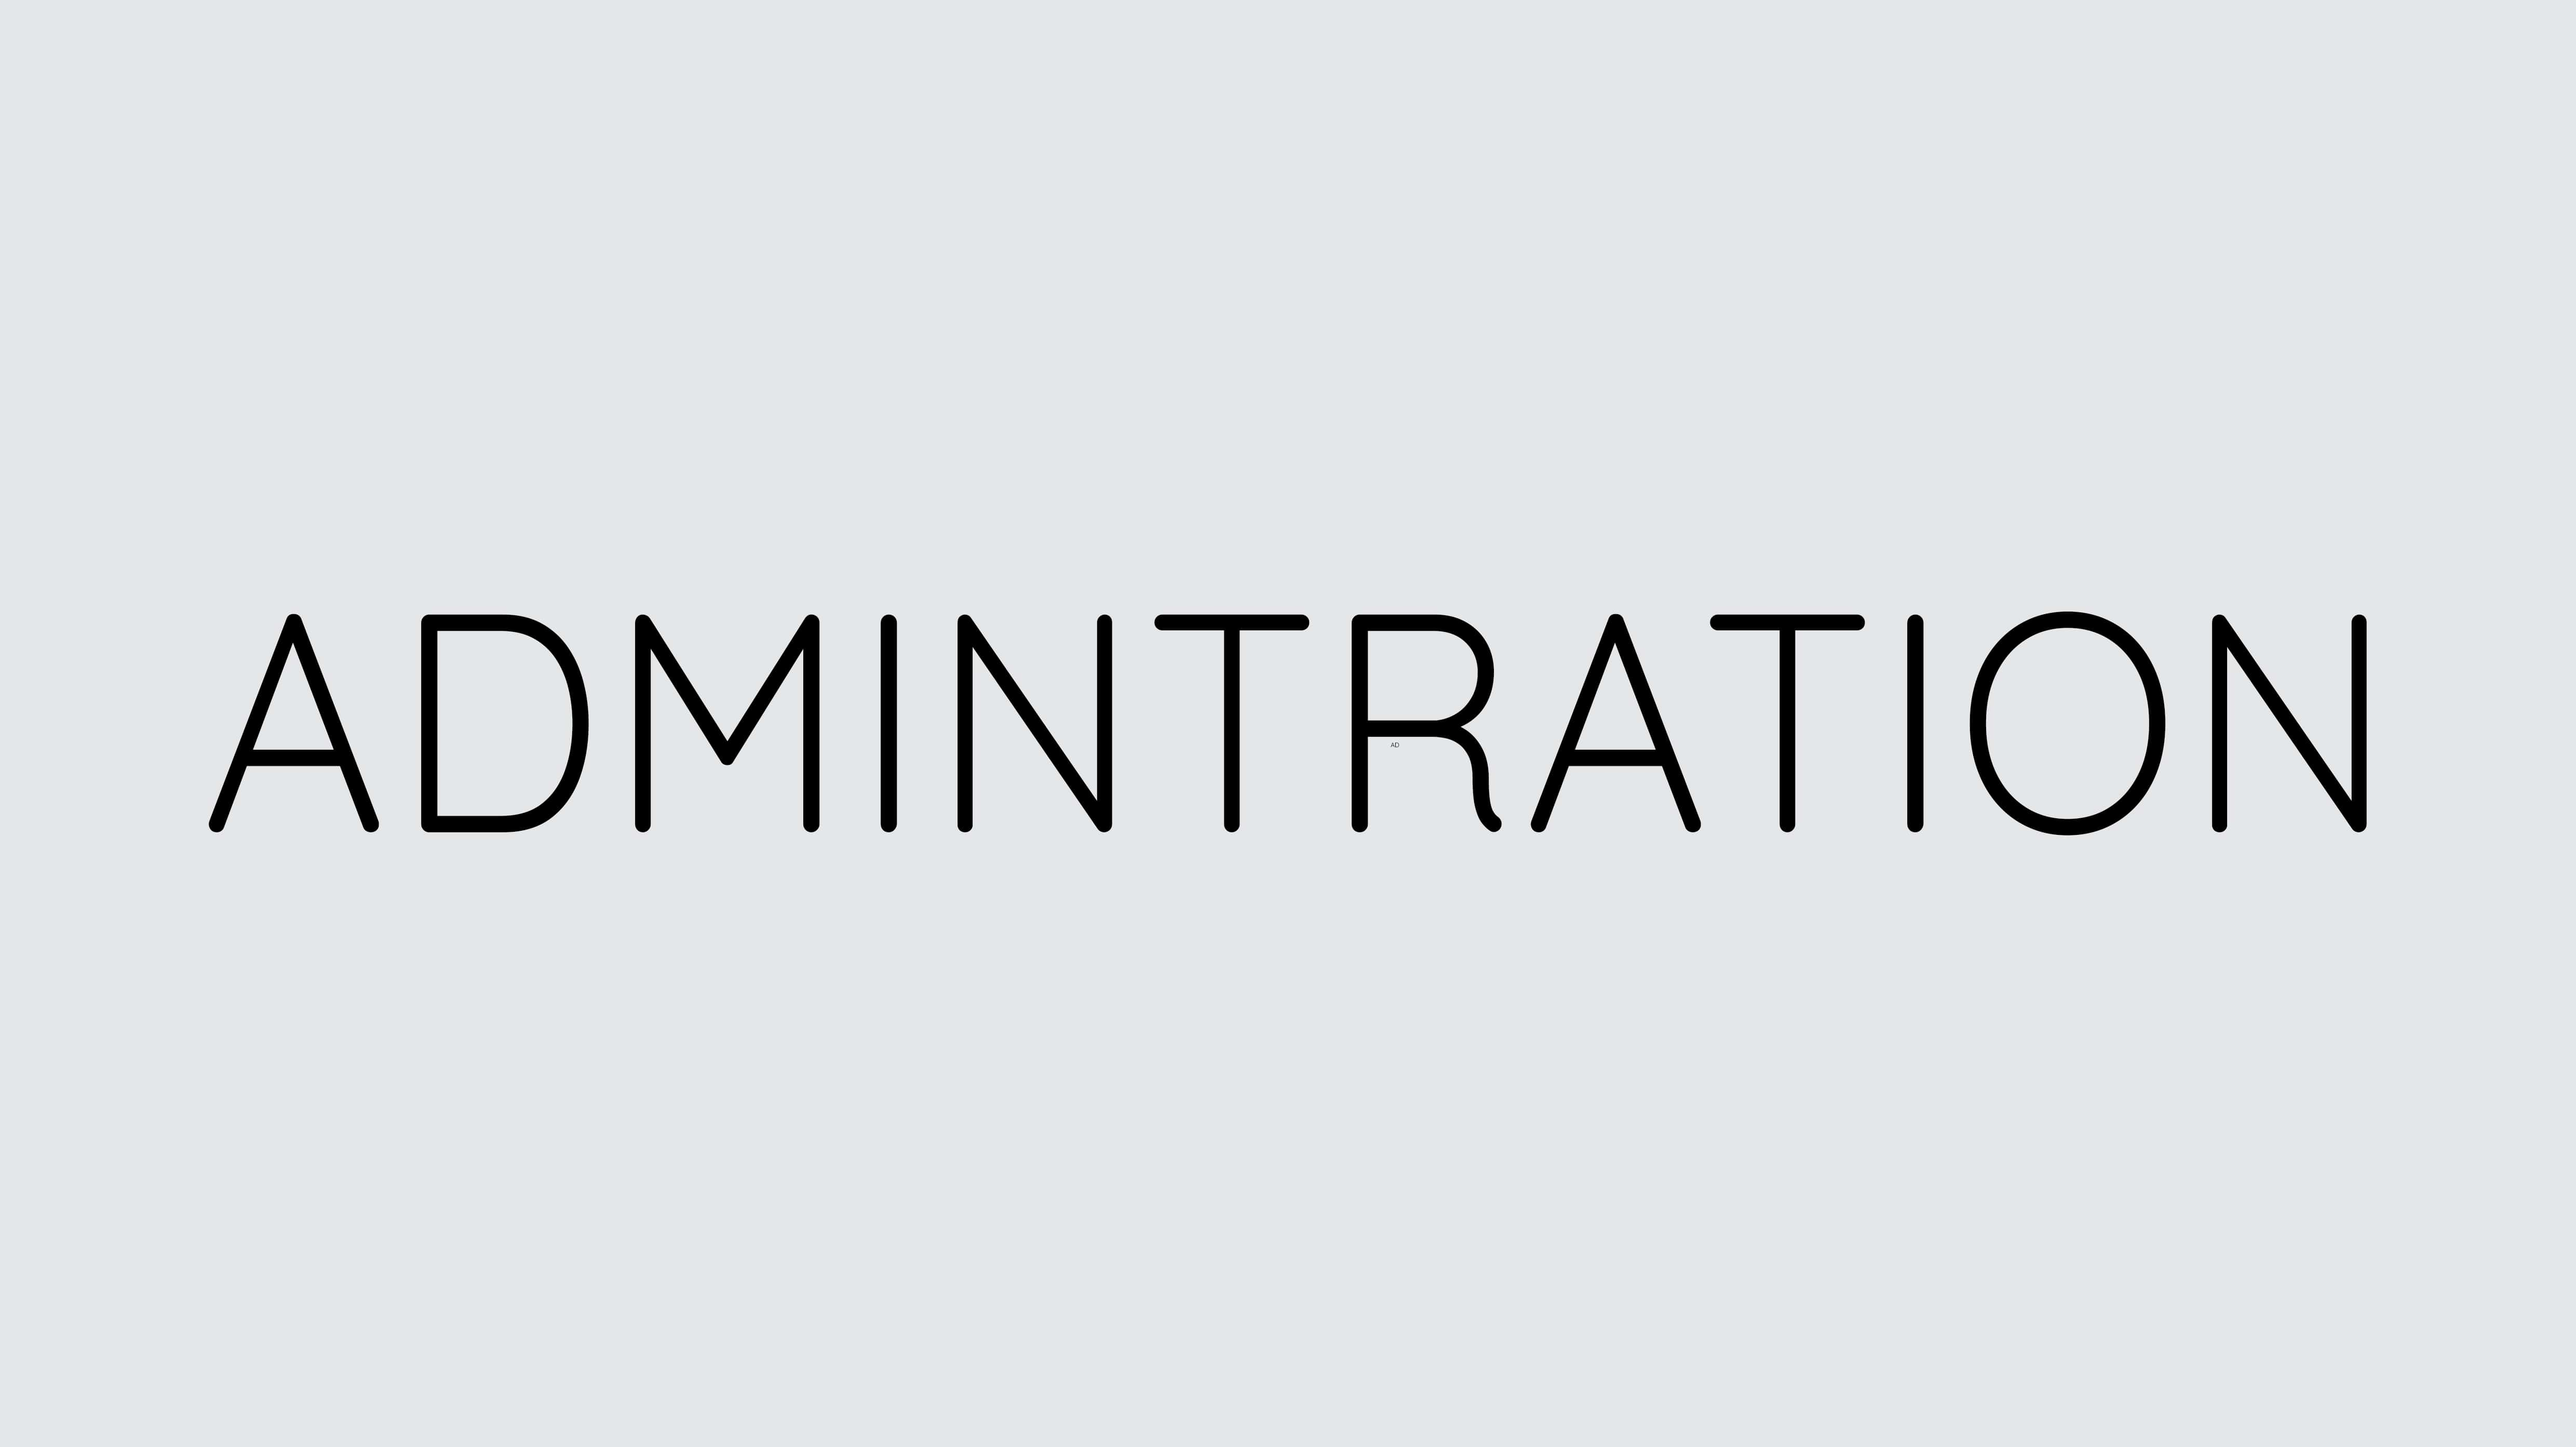
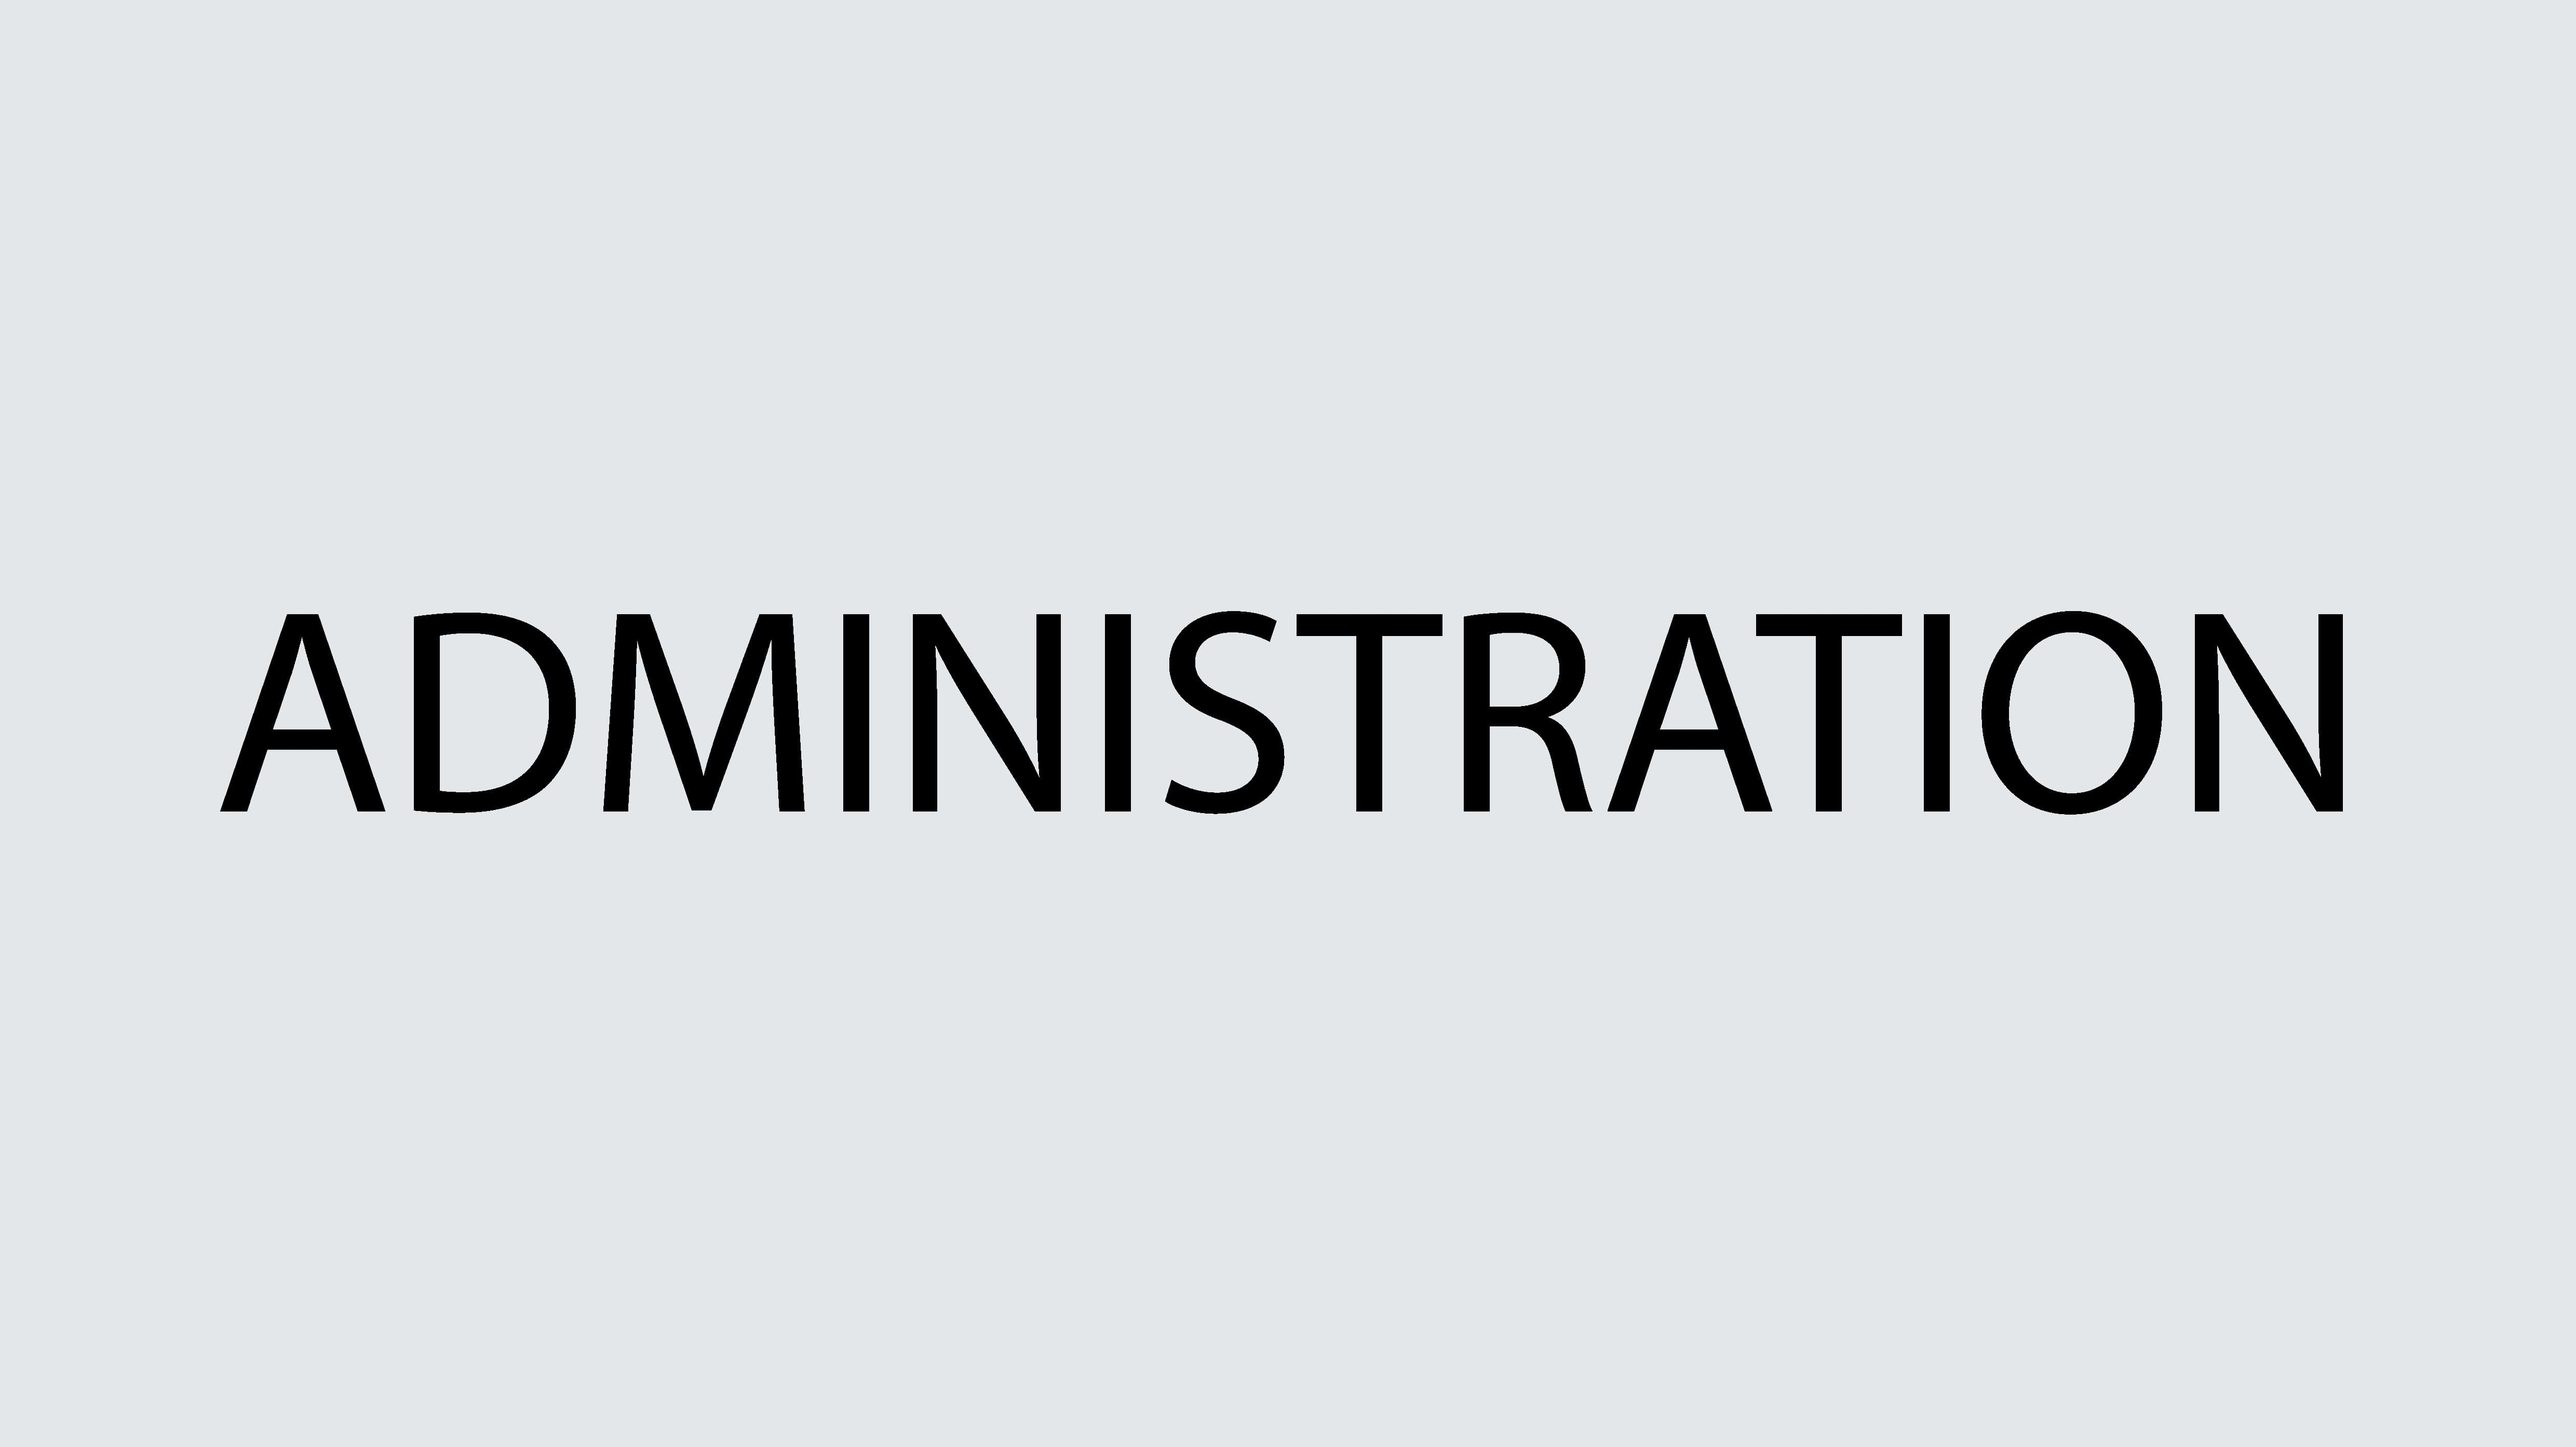
addd

Changed region(s): [[0.0625, 0.4058, 0.9373, 0.5931]]

diff --git a/index.html b/index.html
@@ -1558,7 +1558,7 @@ For Stationery Purchase Listing
           <div class="modal-dialog modal-dialog-centered" role="document">
             <div class="modal-content">
               <div class="modal-header">
-                <h5 class="modal-title" id="exampleModalLongTitle">Admintration</h5>
+                <h5 class="modal-title" id="exampleModalLongTitle">Administration</h5>
                 <button type="button" class="close" data-dismiss="modal" aria-label="Close">
                   <span aria-hidden="true">&times;</span>
                 </button>
@@ -1672,7 +1672,7 @@ For Stationery Purchase Listing
 
   
   <div class="d-flex justify-content-between tm-text-gray">
-    <span class="tm-text-gray-light">Admintration</span>
+    <span class="tm-text-gray-light">Administration</span>
     <span></span>
   </div>
   </div>
